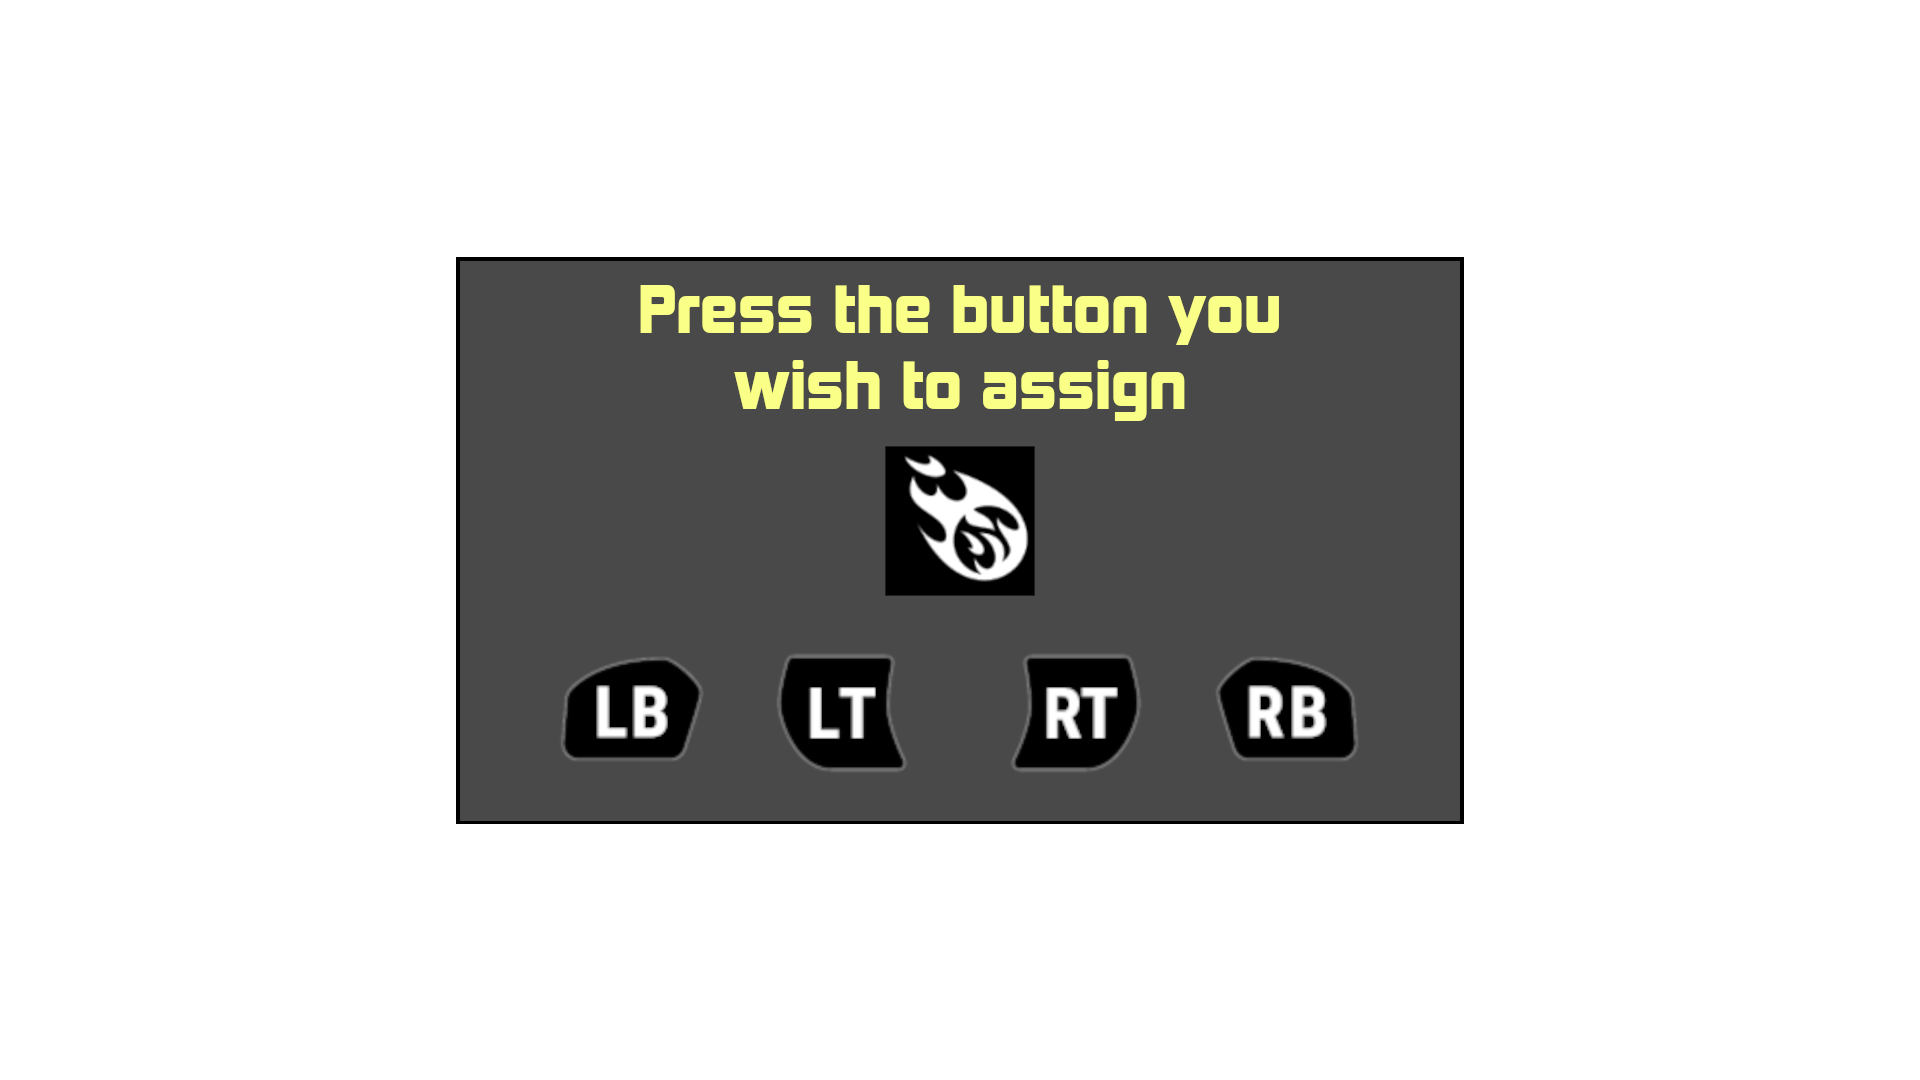
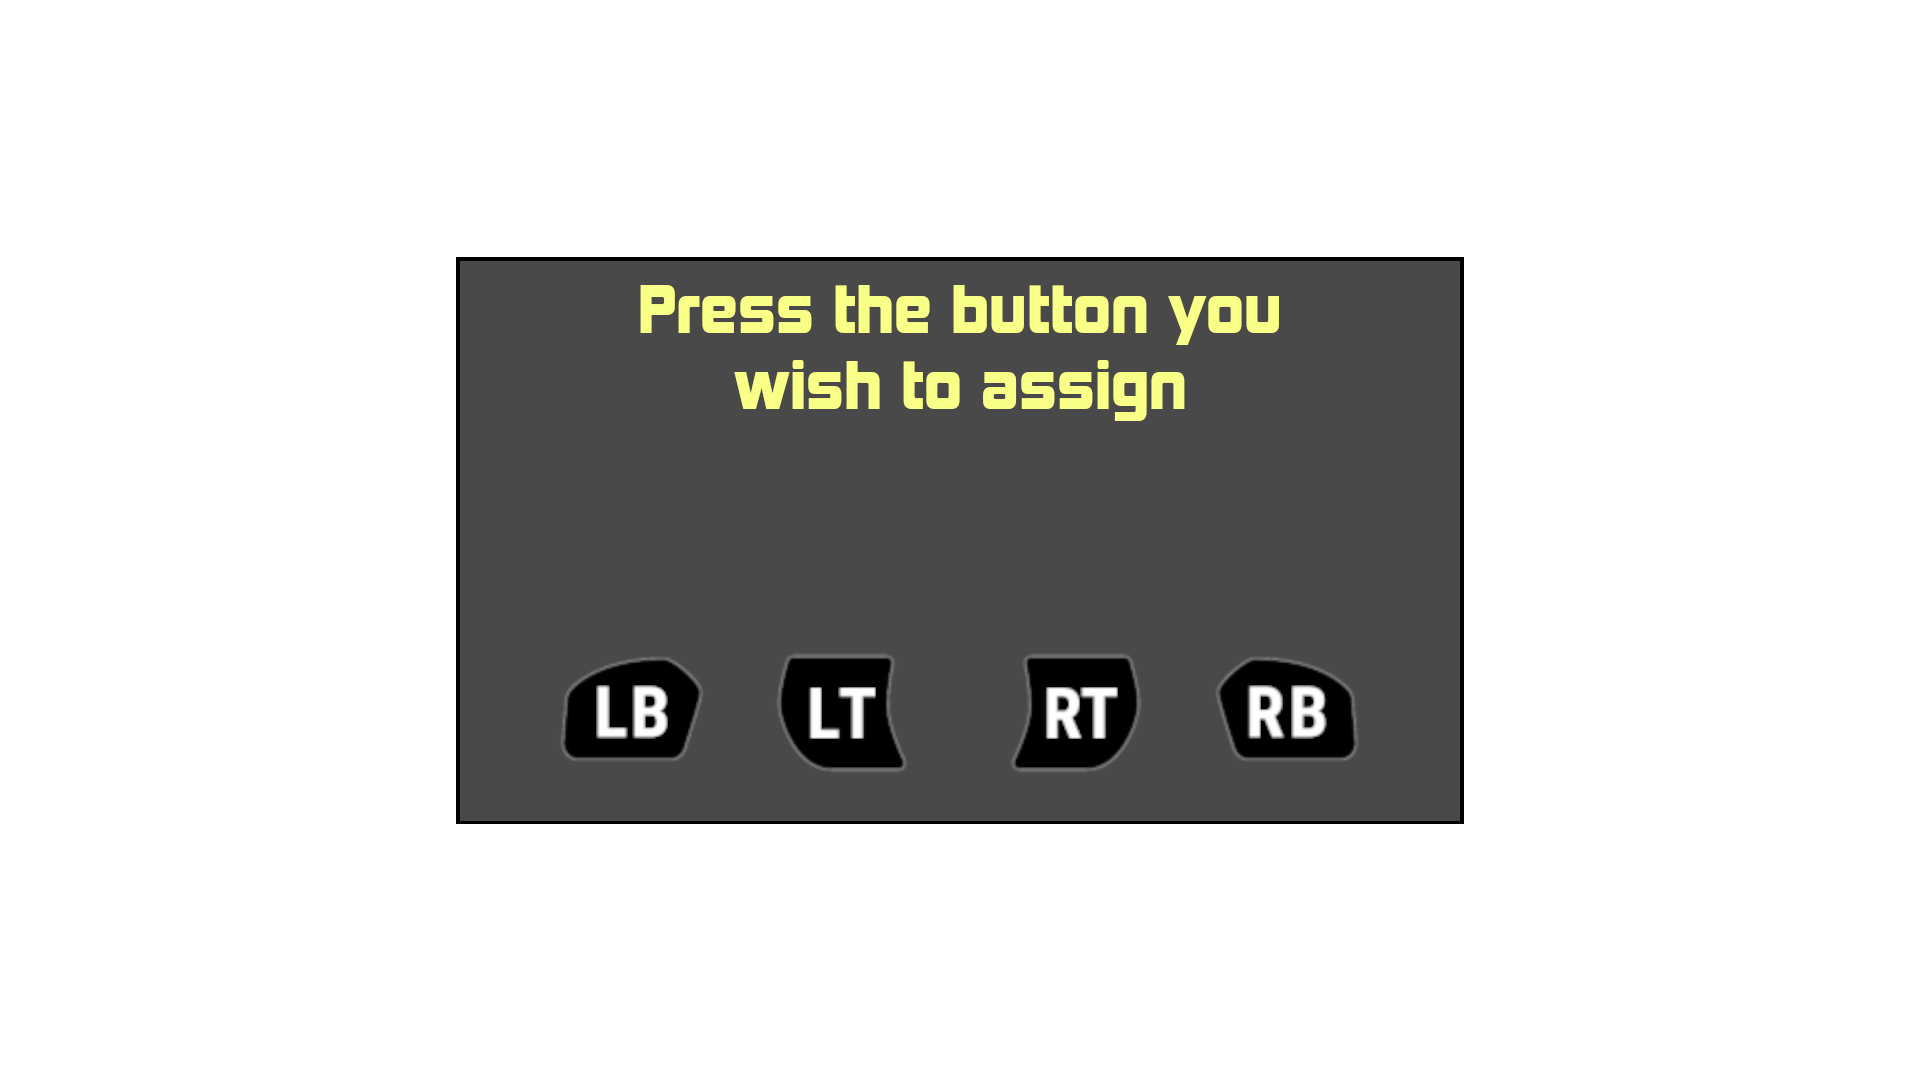
Spell assignment

Changed region(s): [[0.4375, 0.3972, 0.5625, 0.55]]

diff --git a/src/Application/src/menu/UpgradePanel.cpp b/src/Application/src/menu/UpgradePanel.cpp
@@ -1,5 +1,8 @@
 #include <algorithm>
 
+#include <Engine/Event/Event.hpp>
+#include <Engine/Event/JoystickManager.hpp>
+
 #include <Engine/component/Color.hpp>
 #include <Engine/component/VBOTexture.hpp>
 #include <Engine/resources/Texture.hpp>
@@ -24,6 +27,13 @@ void game::menu::UpgradePanel::create(entt::registry &world, ThePURGE &game)
         ImVec2(0, 0),
         ImVec2(1, 1),
     };
+
+    m_bind_popup = GUITexture{
+        helper::getTexture("menus/upgrade_panel/key_assignment_popup.png"),
+        ImVec2(0, 0),
+        ImVec2(1, 1),
+    };
+
 
     m_player = game.player;
 
@@ -53,6 +63,15 @@ void game::menu::UpgradePanel::draw(entt::registry &world, ThePURGE &game)
 
     drawTree(world, game);
     drawDetailPanel(world, game);
+
+    if (m_spellBeingAssigned) {
+        helper::drawTexture(m_bind_popup);
+        const auto spellIcon = helper::getTexture(m_spellBeingAssigned->iconPath);
+
+        helper::drawTexture(
+            spellIcon, helper::frac2pixel(helper::from1080p(885, 446)), helper::frac2pixel(helper::from1080p(150, 150)));
+    }
+
 
     ImGui::End();
 }
@@ -133,6 +152,9 @@ void game::menu::UpgradePanel::drawDetailPanel(entt::registry &world, ThePURGE &
 
 void game::menu::UpgradePanel::processInputs(entt::registry &world, ThePURGE &game)
 {
+    if (m_spellBeingAssigned) return;
+
+
     const auto *parent = findParent(m_selection->cl);
     spdlog::info("self index {}", m_selection->selfIndex);
 
@@ -168,6 +190,7 @@ void game::menu::UpgradePanel::processInputs(entt::registry &world, ThePURGE &ga
     if (select() && isPurchaseable(m_selection->cl) && sp >= m_selection->cl->cost) {
         game.logics()->onPlayerPurchase.publish(world, m_player, *m_selection->cl);
 
+        m_spellBeingAssigned = &game.dbSpells().db.at(m_selection->cl->spells.front());
         updateClassTree(world, game);
         m_selection = findInTree(game.dbClasses().getByName(world.get<Classes>(m_player).ids.back()));
     }
@@ -359,7 +382,7 @@ void game::menu::UpgradePanel::printClassTreeDebug() const noexcept
 }
 
 
-void game::menu::UpgradePanel::event(entt::registry &, ThePURGE &game, const engine::Event &e)
+void game::menu::UpgradePanel::event(entt::registry &world, ThePURGE &game, const engine::Event &e)
 {
     std::visit(
         engine::overloaded{
@@ -378,4 +401,72 @@ void game::menu::UpgradePanel::event(entt::registry &, ThePURGE &game, const eng
             [&](auto) {},
         },
         e);
+
+
+    if (m_spellBeingAssigned) {
+        const auto spell_map = []<typename T>(T k) {
+            struct SpellMap {
+                int key;
+                std::size_t id;
+            };
+            if constexpr (std::is_same<T, engine::Joystick::Buttons>::value) {
+                const auto map = std::to_array<SpellMap>({{engine::Joystick::LS, 0}, {engine::Joystick::RS, 1}});
+                return std::find_if(map.begin(), map.end(), [&k](auto &i) { return i.key == k; })->id;
+
+            } else if constexpr (std::is_same<T, engine::Joystick::Axis>::value) {
+                const auto map = std::to_array<SpellMap>({{engine::Joystick::LST, 2}, {engine::Joystick::RST, 3}});
+                return std::find_if(map.begin(), map.end(), [&k](auto &i) { return i.key == k; })->id;
+
+            } else { // todo : should be engine::Keyboard::Key
+                const auto map =
+                    std::to_array<SpellMap>({{GLFW_KEY_U, 0}, {GLFW_KEY_Y, 1}, {GLFW_KEY_T, 2}, {GLFW_KEY_R, 3}});
+                return std::find_if(map.begin(), map.end(), [&k](auto &i) { return i.key == k; })->id;
+            }
+        };
+
+        std::visit(
+            engine::overloaded{
+                [&](const engine::Pressed<engine::Key> &key) {
+                    switch (key.source.key) {
+                    case GLFW_KEY_U:
+                    case GLFW_KEY_Y:
+                    case GLFW_KEY_R:
+                    case GLFW_KEY_T: {
+                        const auto id = spell_map(key.source.key);
+
+                        world.get<SpellSlots>(m_player).spells[id] = game.dbSpells().instantiate(m_spellBeingAssigned->name);
+                        m_spellBeingAssigned = nullptr;
+                    } break;
+                    default: break;
+                    }
+                },
+                [&](const engine::Moved<engine::JoystickAxis> &joy) {
+                    switch (joy.source.axis) {
+                    case engine::Joystick::LST:
+                    case engine::Joystick::RST: {
+                        const auto id = spell_map(joy.source.axis);
+                        spdlog::info("Assign to {}", id);
+                        world.get<SpellSlots>(m_player).spells[id] = game.dbSpells().instantiate(m_spellBeingAssigned->name);
+                        m_spellBeingAssigned = nullptr;
+                    } break;
+                    default: break;
+                    }
+                },
+                [&](const engine::Pressed<engine::JoystickButton> &joy) {
+                    switch (joy.source.button) {
+                    case engine::Joystick::LS:
+                    case engine::Joystick::RS: {
+                        const auto id = spell_map(joy.source.button);
+                        spdlog::info("Assign to {}", id);
+
+                        world.get<SpellSlots>(m_player).spells[id] = game.dbSpells().instantiate(m_spellBeingAssigned->name);
+                        m_spellBeingAssigned = nullptr;
+                    } break;
+                    default: return;
+                    }
+                },
+                [&](auto) {},
+            },
+            e);
+    }
 }

diff --git a/src/Application/src/GameLogic/fight.cpp b/src/Application/src/GameLogic/fight.cpp
@@ -40,15 +40,6 @@ auto game::GameLogic::slots_apply_classes(entt::registry &world, entt::entity pl
     health.max += newClass.health;
     world.get<Classes>(player).ids.push_back(newClass.name);
 
-    // TODO: actual spell selection ?
-
-    for (const auto &spell : newClass.spells)
-        for (auto &slot : world.get<SpellSlots>(player).spells) {
-            if (slot.has_value()) continue;
-            slot = m_game.dbSpells().instantiate(spell);
-            break;
-        }
-
     world.replace<engine::Spritesheet>(
         player, engine::Spritesheet::from_json(holder.instance->settings().data_folder + newClass.assetGraphPath));
 
@@ -66,7 +57,7 @@ auto game::GameLogic::slots_level_up(entt::registry &world, entt::entity entity)
     level.xp_require = static_cast<std::uint32_t>(std::ceil(level.xp_require * 1.2));
     level.current_level++;
 
-    auto pos = world.get<engine::d3::Position>(entity);
+    const auto &pos = world.get<engine::d3::Position>(entity);
     ParticuleFactory::create<Particule::POSITIVE>(world, {pos.x, pos.y}, {255, 255, 0});
 }
 

diff --git a/src/Application/src/GameLogic.cpp b/src/Application/src/GameLogic.cpp
@@ -76,7 +76,11 @@ auto game::GameLogic::slots_game_start(entt::registry &world) -> void
 
 
     m_game.player = EntityFactory::create<EntityFactory::PLAYER>(m_game, world, {}, {});
-    slots_apply_classes(world, m_game.player, m_game.dbClasses().getStarterClass());
+
+    const auto &starterClass = m_game.dbClasses().getStarterClass();
+    slots_apply_classes(world, m_game.player, starterClass);
+    for (int i = 0; const auto &spell : starterClass.spells)
+        world.get<SpellSlots>(m_game.player).spells[i++] = m_game.dbSpells().instantiate(spell); 
 
     auto aimingSight = EntityFactory::create<EntityFactory::ID::AIMING_SIGHT>(m_game, world, {}, {});
 

diff --git a/src/Application/include/menu/UpgradePanel.hpp b/src/Application/include/menu/UpgradePanel.hpp
@@ -44,7 +44,10 @@ private:
     void printClassTreeDebug() const noexcept;
 private:
     GUITexture m_static_background;
+    GUITexture m_bind_popup;
     entt::entity m_player;
+
+    const SpellData * m_spellBeingAssigned;
 
     const ClassTreeNode *m_selection;
     ImVec2 m_cursorCurrentPos; // in tree unit (@see `ClassTreeNode`)
